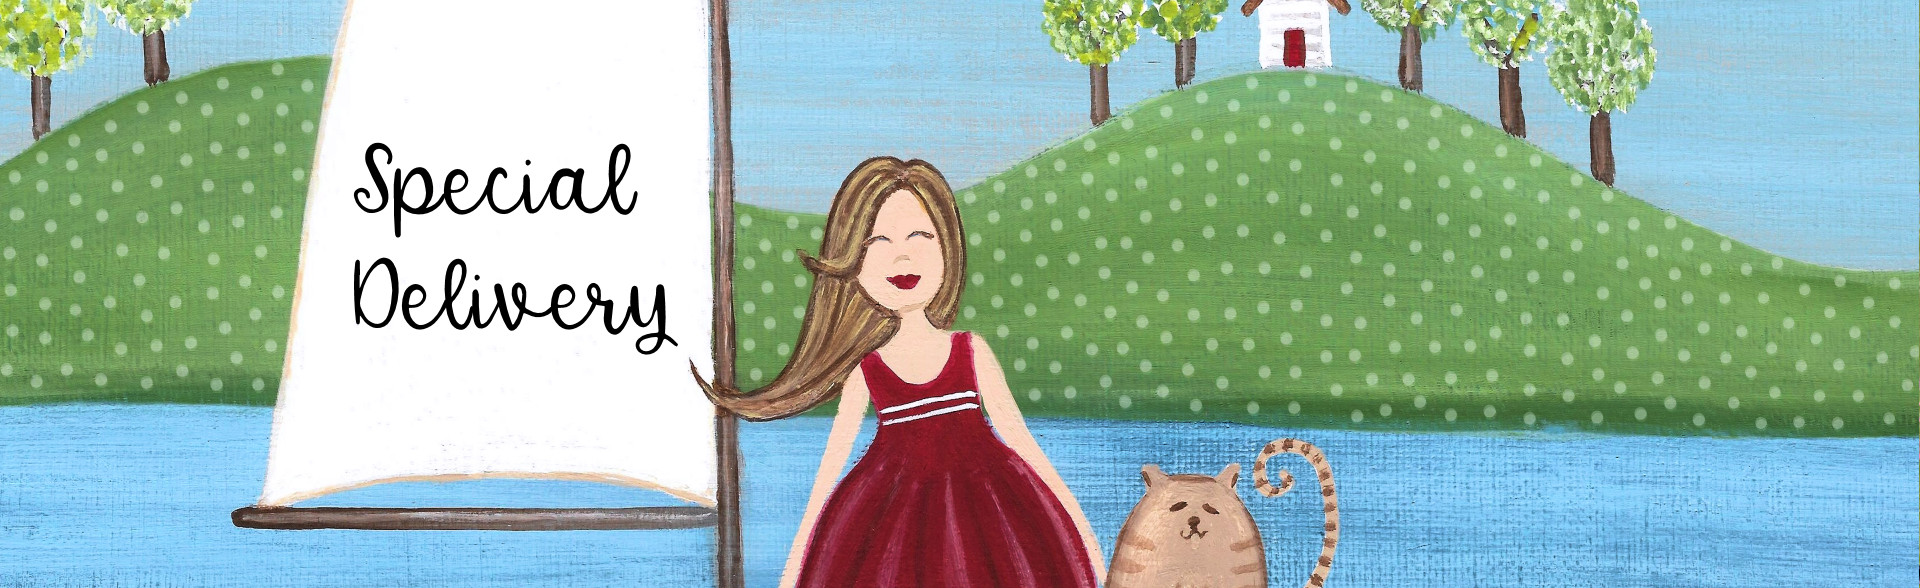
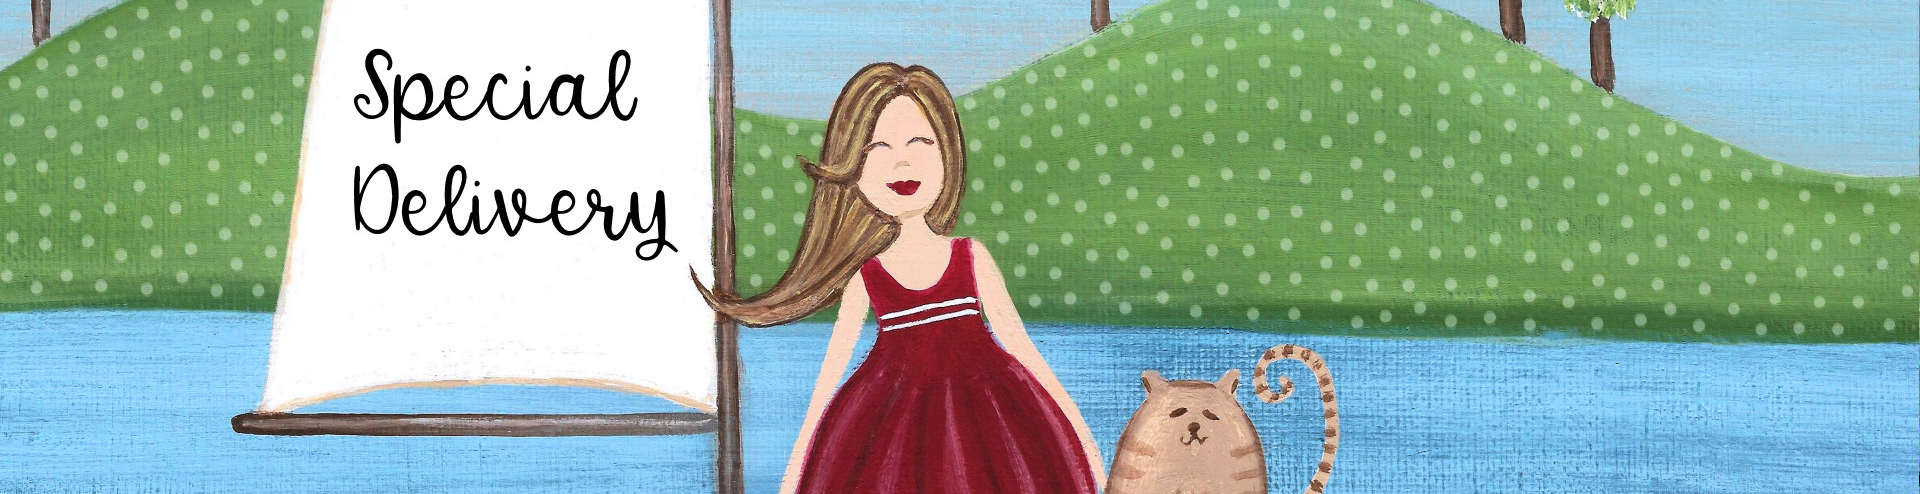
Final tweeks & updates

diff --git a/public/css/style.css b/public/css/style.css
@@ -4,7 +4,10 @@ Author: Samantha Shirley (#301240317)
 Date: 09/27/2023
 */
 
-/* PAGE */
+/****************************************************************************
+  GENERAL
+****************************************************************************/
+
 * {
   box-sizing: border-box;
 }
@@ -19,18 +22,20 @@ body {
 html {
   font-size: calc(16px + (24 - 16) * (100vw - 400px) / (2560 - 400));
 }
-header {
-  font-size: 1.2em;
+
+header img {
+  width: 100%;
 }
+
 main {
   font-size: 1em;
-  flex: 1;
-  margin-bottom: 300px;
+  margin-bottom: 0px;
 }
 
 figure {
   margin: 0 auto;
 }
+
 footer {
   clear: both;
   margin-top: 1em;
@@ -39,61 +44,6 @@ footer .navbar-text {
   margin: 0 auto;
   padding: 20px;
 }
-.subtitle,
-.subtitle a {
-  color: gray;
-  font-size: 0.8em;
-  margin-top: -10px;
-}
-
-header img {
-  width: 100%;
-}
-
-@media screen and (max-width: 598px) {
-  header,
-  main {
-    font-size: 1.2em;
-  }
-}
-
-/* HEADER */
-#home header section {
-  background: url("/img/hero/index-hero-image.jpg") top;
-  background-size: cover;
-  min-height: 240px;
-  border-top-right-radius: 10em;
-}
-
-#about header section {
-  background: url("/img/hero/about-hero-image.jpg") top;
-  background-size: cover;
-  min-height: 240px;
-  border-top-right-radius: 10em;
-}
-
-#projects header section {
-  background: url("/img/hero/projects-hero-image.jpg") top;
-  background-size: cover;
-  min-height: 240px;
-  border-top-right-radius: 10em;
-}
-
-#services header section {
-  background: url("/img/hero/services-hero-image.jpg") top;
-  background-size: cover;
-  min-height: 240px;
-  border-top-right-radius: 10em;
-}
-
-#contact header section {
-  background: url("/img/hero/contact-hero-image.jpg") top;
-  background-size: cover;
-  min-height: 240px;
-  border-top-right-radius: 10em;
-}
-
-/* GENERAL */
 
 a:link {
   text-decoration: none;
@@ -109,7 +59,62 @@ a:active {
   text-decoration: none;
 }
 
-/* NAV MENU */
+.subtitle,
+.subtitle a {
+  color: gray;
+  font-size: 0.8em;
+  margin-top: -10px;
+}
+
+@media screen and (max-width: 598px) {
+  header,
+  main {
+    font-size: 1.2em;
+  }
+}
+
+/****************************************************************************
+  PAGE HEADERS
+****************************************************************************/
+
+#home header section {
+  background: url("/img/hero/index-hero-image.jpg") top;
+  background-size: cover;
+  min-height: 300px;
+  border-top-right-radius: 10em;
+}
+
+#about header section {
+  background: url("/img/hero/about-hero-image.jpg") top;
+  background-size: cover;
+  min-height: 300px;
+  border-top-right-radius: 10em;
+}
+
+#projects header section {
+  background: url("/img/hero/projects-hero-image.jpg") top;
+  background-size: cover;
+  min-height: 300px;
+  border-top-right-radius: 10em;
+}
+
+#services header section {
+  background: url("/img/hero/services-hero-image.jpg") top;
+  background-size: cover;
+  min-height: 300px;
+  border-top-right-radius: 10em;
+}
+
+#contact header section {
+  background: url("/img/hero/contact-hero-image.jpg") top;
+  background-size: cover;
+  min-height: 300px;
+  border-top-right-radius: 10em;
+}
+
+/****************************************************************************
+  NAV MENU
+****************************************************************************/
 
 ul.navbar-nav {
   list-style: none; /* Remove the bullet */
@@ -127,7 +132,14 @@ li.nav-item .active,
   color: crimson;
 }
 
-/* MAIN */
+/****************************************************************************
+  MAIN SECTION LAYOUTS
+****************************************************************************/
+
+main section {
+  padding: 1rem 1rem 0 1rem;
+}
+
 main section.col1 {
   background-color: rgba(0, 0, 0, 0.1);
   border-radius: 1em;
@@ -135,17 +147,19 @@ main section.col1 {
   display: inline;
   float: left;
   margin-bottom: 1em;
-  margin-top: 1em;
+  margin-top: 0em;
   margin-left: 0px;
   margin-right: 1em;
   padding: 2em;
   width: 58%;
 }
+
 main section.col1 div {
   box-sizing: border-box;
   display: inline;
   width: 100%;
 }
+
 main section.col2 {
   background-color: rgba(0, 0, 0, 0.05);
   border-radius: 1em;
@@ -153,10 +167,11 @@ main section.col2 {
   display: inline;
   float: left;
   margin-bottom: 1.3em;
-  margin-top: 1em;
+  margin-top: 0em;
   padding: 1em;
   width: 40%;
 }
+
 main section.col2 img,
 img.gallery {
   border: 1px solid grey;
@@ -166,24 +181,16 @@ img.gallery {
   padding: 10px;
   width: 100%;
 }
+
 main#about section.col2 {
-  background-color: rgba(0, 0, 0, 0.05);
-  border-radius: 1em;
-  box-sizing: border-box;
-  display: inline;
-  float: right;
+  background-color: white;
+  border: 1px solid grey;
   margin-bottom: 0em;
-  margin-top: 1em;
-  padding: 0em;
-  width: 40%;
 }
+
 main#about section.col2 img {
   margin: 0px auto;
   padding: 0px;
-}
-
-main section {
-  padding: 1rem 1rem 0 1rem;
 }
 
 main section > ul {
@@ -204,6 +211,7 @@ main section > ul > li {
   position: relative;
   padding: 1em;
 }
+
 main section > ul > li > p {
   line-height: 1.2;
   padding: 0.5em 0.75em;
@@ -217,14 +225,15 @@ main section > ul > li > p > a {
   color: #444444;
 }
 
-main section > ul > li > p > a:hover {
-  font-weight: bold;
-}
+/****************************************************************************
+  SOCIAL MEDIA MENU
+****************************************************************************/
 
 main aside {
   margin: 0 auto;
   text-align: center;
 }
+
 main aside img {
   width: 5vw;
 }
@@ -237,7 +246,6 @@ main aside ul {
 main aside ul li {
   color: gray;
   display: inline;
-
   list-style-type: none;
   margin: 0.1em;
   padding: 10px;
@@ -247,17 +255,11 @@ main aside ul li a {
   color: gray;
   text-decoration: none;
 }
-#contact main > section ul li {
-  display: block;
-  margin: 0 auto;
-  background-color: lightgrey;
-  padding: 2em;
-  width: 100%;
-  border-radius: 0.5rem;
-  list-style-type: none;
-  min-height: 150px;
-  position: relative;
-}
+
+/****************************************************************************
+  VIDEO 
+****************************************************************************/
+
 main#projects section ul li video {
   background-color: white;
   display: block;
@@ -269,8 +271,9 @@ main#projects section ul li video {
   margin: 1em auto;
   margin-bottom: 0.4em;
 }
+
 /****************************************************************************
-  4. FORM STYLES 
+  FORM STYLES 
 ****************************************************************************/
 
 fieldset {
